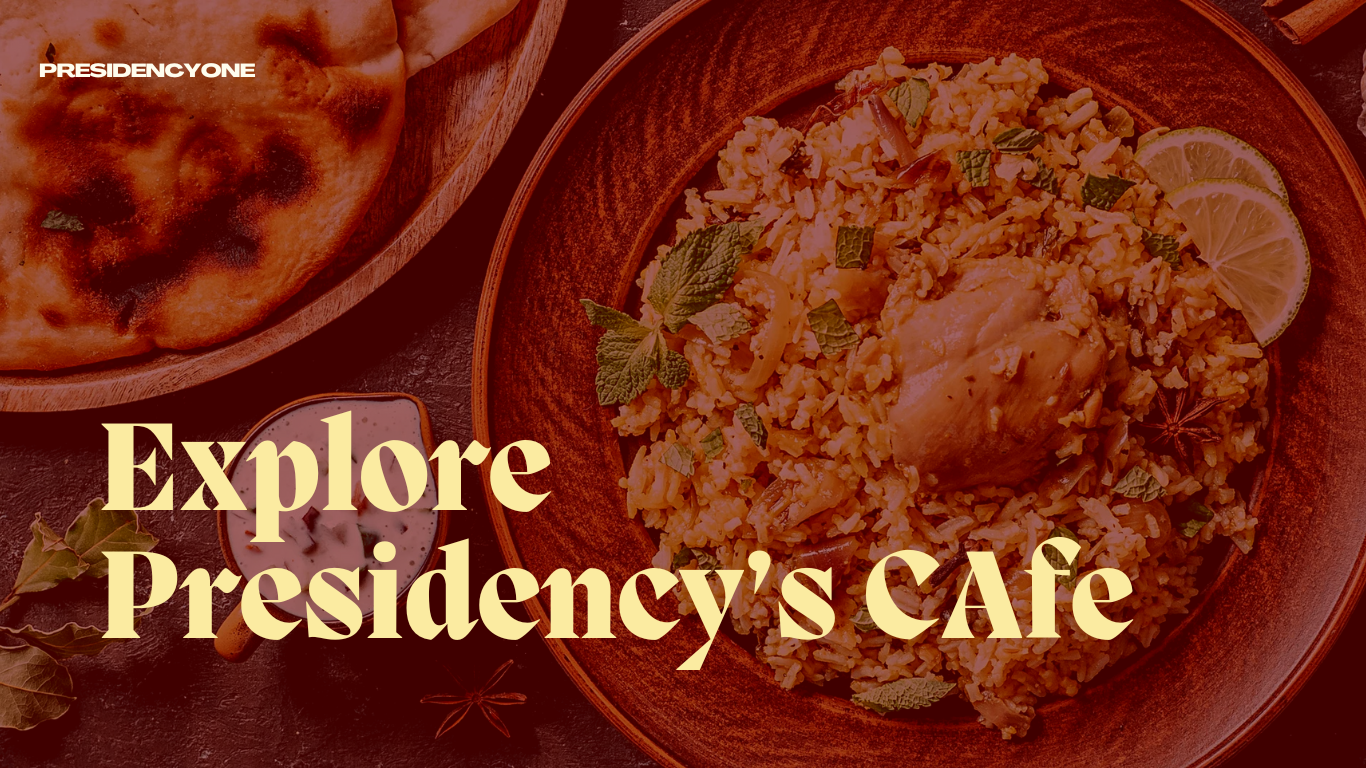
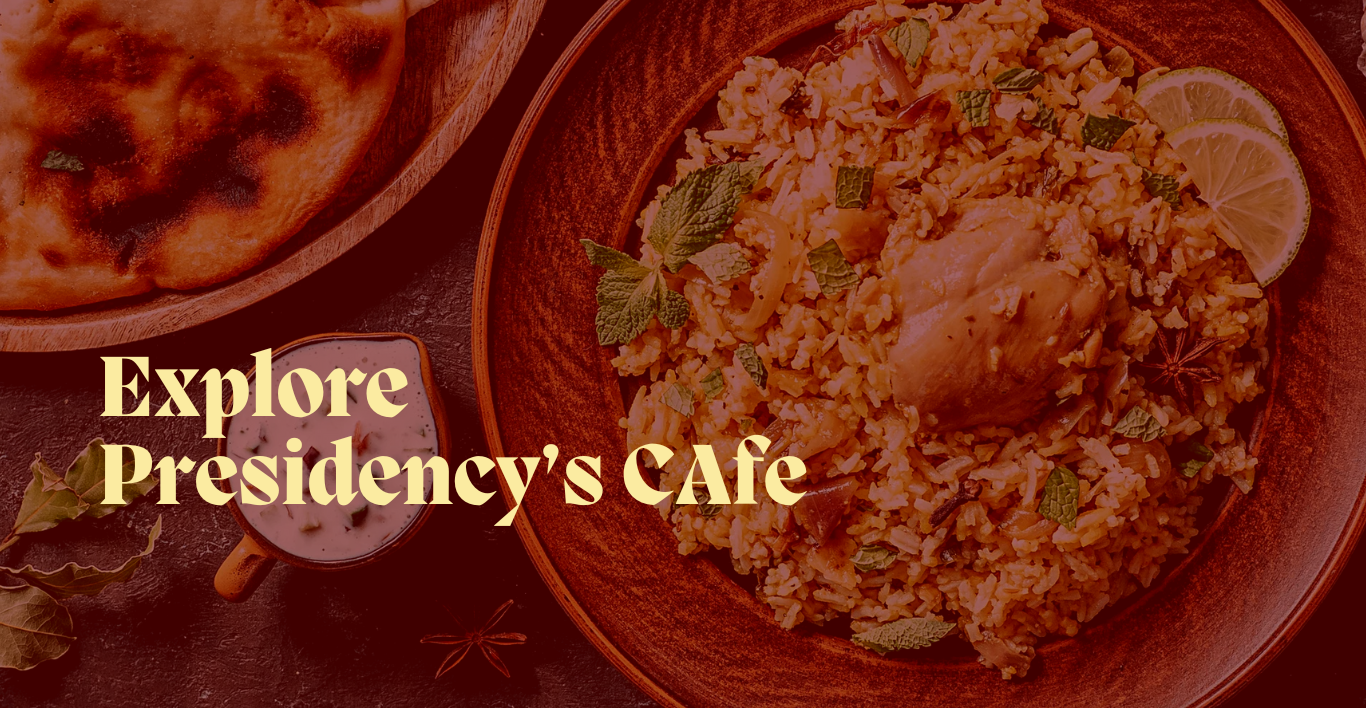
Changes

diff --git a/stationery1.html b/stationery1.html
@@ -18,9 +18,9 @@
         <ul class="nav-links">
             <li><a href="#">About Us</a></li>
             <li><a href="#">Fest</a></li>
-            <li><a href="#">Clubs</a></li>
-            <li><a href="#">Cafes</a></li>
-            <li><a href="#">Stationary</a></li>
+            <li><a href="clubs.html">Clubs</a></li>
+            <li><a href="cafe.html">Cafes</a></li>
+            <li><a href="stationery.html">Stationary</a></li>
             <li><a href="#">Join Quiz</a></li>
             <li><a href="#">Healthcare</a></li>
         </ul>

diff --git a/cafe.css b/cafe.css
@@ -11,7 +11,7 @@ body {
     font-family: Arial, sans-serif;
     margin: 0;
     padding: 0;
-    background: linear-gradient(#ffffff,white);
+    background: linear-gradient(#fbeba1,white);
     /* height: 220px; */
 }
 

diff --git a/cafe.html b/cafe.html
@@ -49,7 +49,7 @@
 <title>Vertical Icon Menu</title>
 
 <div class="cafebg">
-<img src="cafebg.png">
+<img src="cafebg.png" width="100%">
 </div>
    
     <div class="cafe_container">
